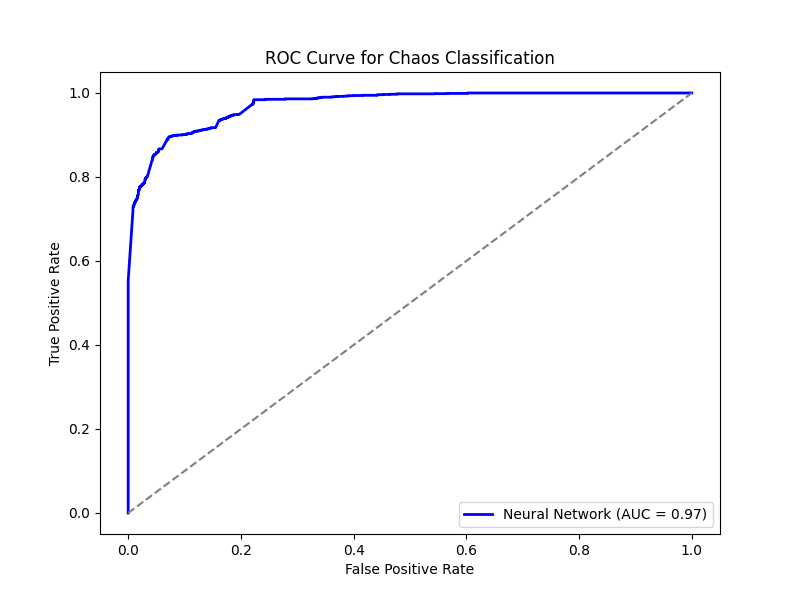
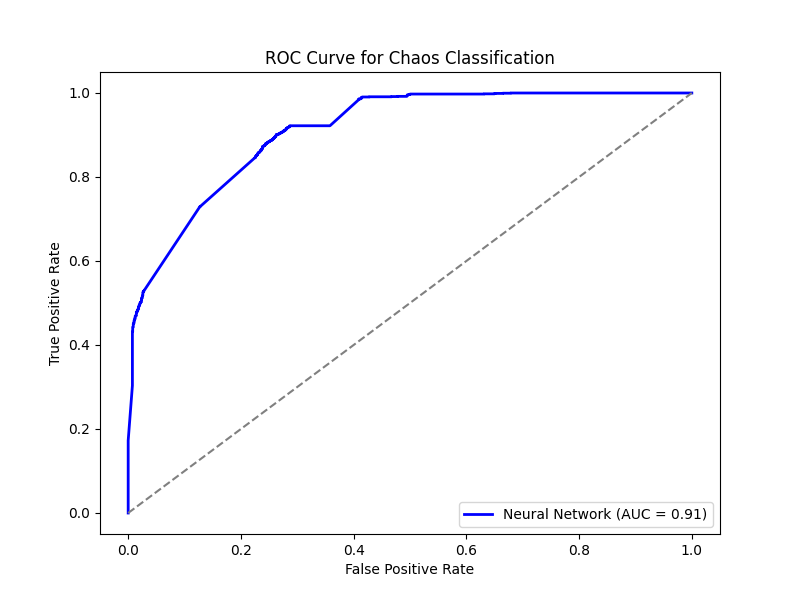
Added new files

diff --git a/chaos_nn_classifier.py b/chaos_nn_classifier.py
@@ -41,6 +41,9 @@ kf = StratifiedKFold(n_splits=k, shuffle=True, random_state=42)
 accuracies, precisions, recalls, f1_scores, all_y_true, all_y_pred = [], [], [], [], [], []
 last_model, X_test_last, y_test_last = None, None, None
 
+# Callback for early stopping
+early_stopping = keras.callbacks.EarlyStopping(monitor='val_loss', patience=3, restore_best_weights=True)
+
 for train_index, test_index in kf.split(X, y):
     X_train, X_test = X[train_index], X[test_index]
     y_train, y_test = y[train_index], y[test_index]
@@ -60,7 +63,7 @@ for train_index, test_index in kf.split(X, y):
         keras.layers.Dense(1, activation='sigmoid')
     ])
     model.compile(optimizer='adam', loss='binary_crossentropy', metrics=['accuracy'])
-    model.fit(X_train, y_train, epochs=10, batch_size=16, class_weight=class_weight_dict, verbose=0)
+    model.fit(X_train, y_train, epochs=10, batch_size=16, class_weight=class_weight_dict, verbose=0, validation_data=(X_test, y_test), callbacks=[early_stopping])
     
     loss, accuracy = model.evaluate(X_test, y_test, verbose=0)
     y_pred_prob = model.predict(X_test)
